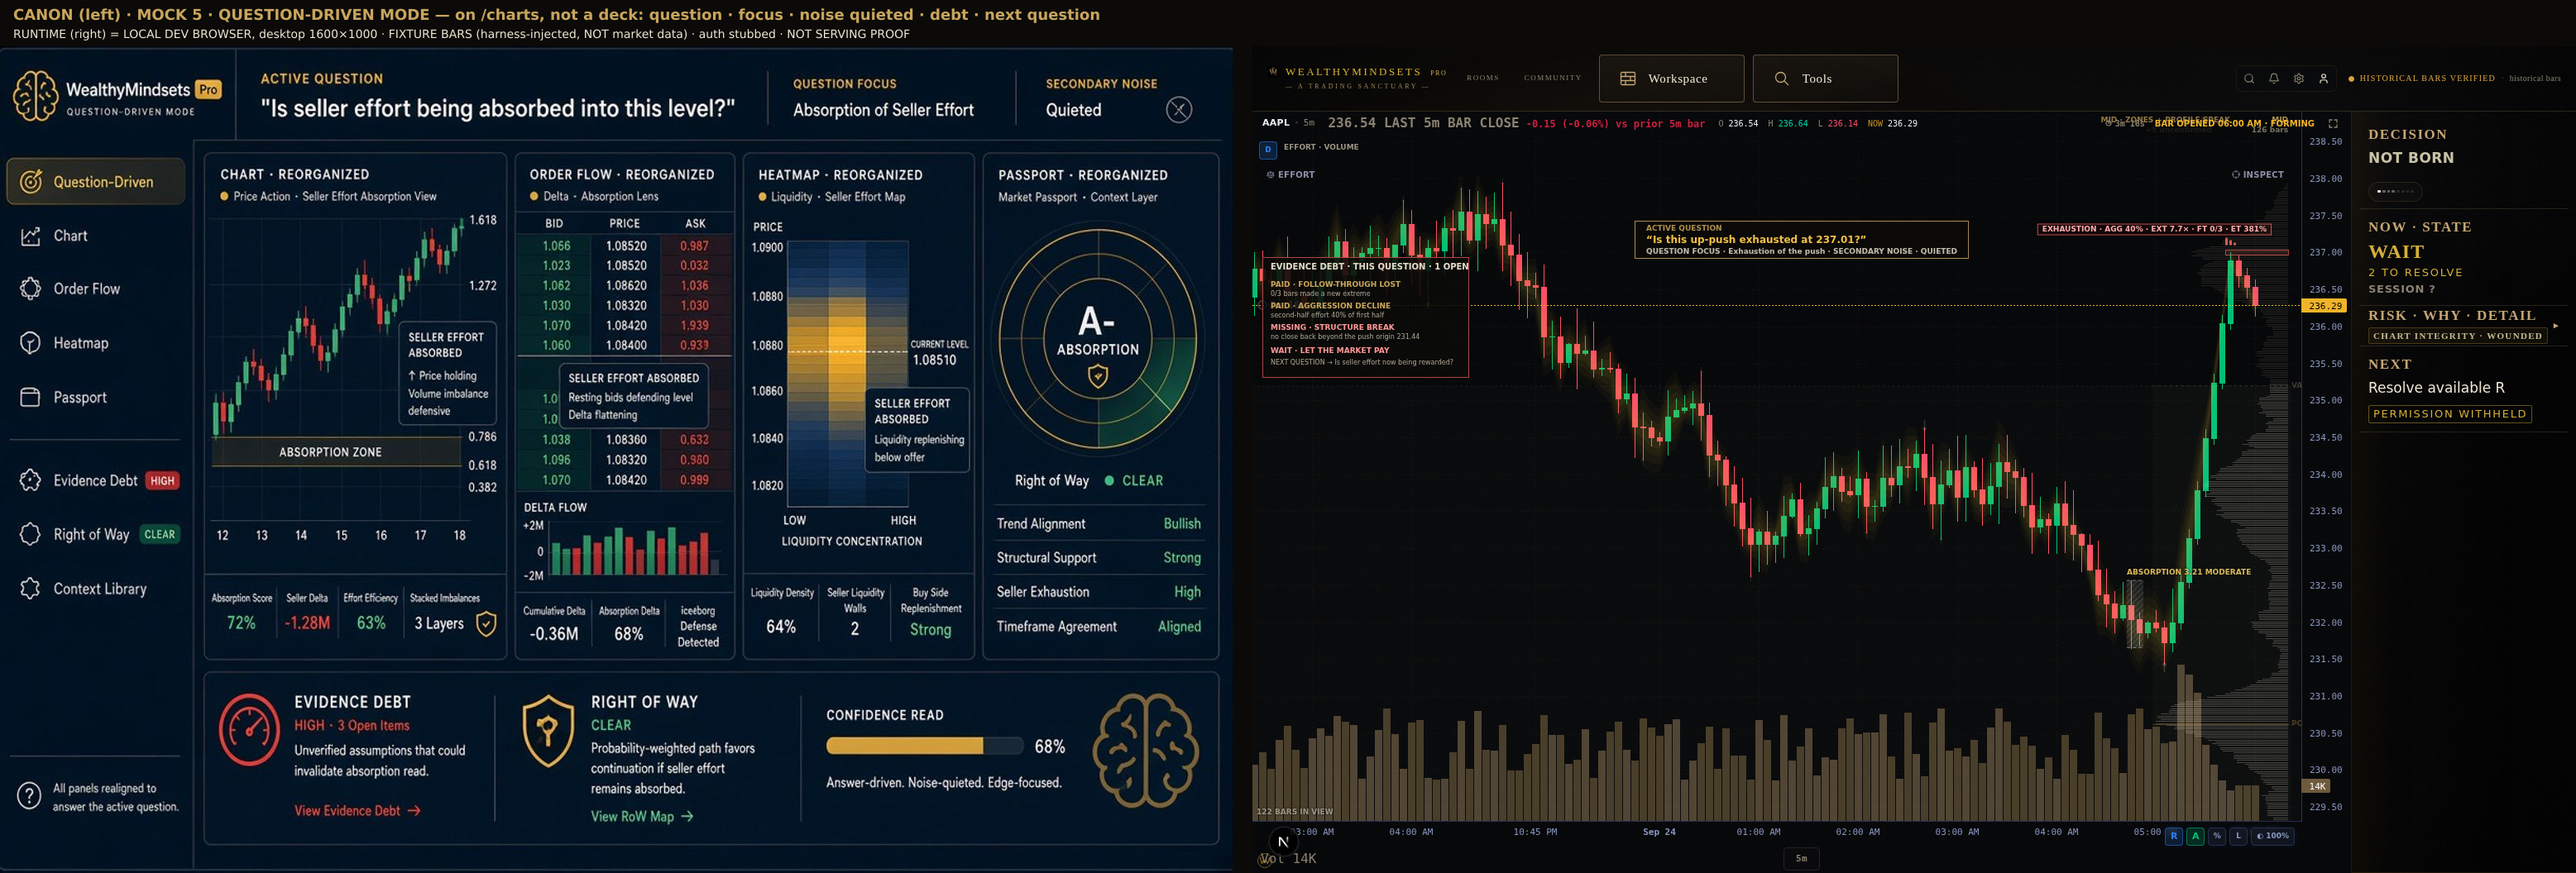
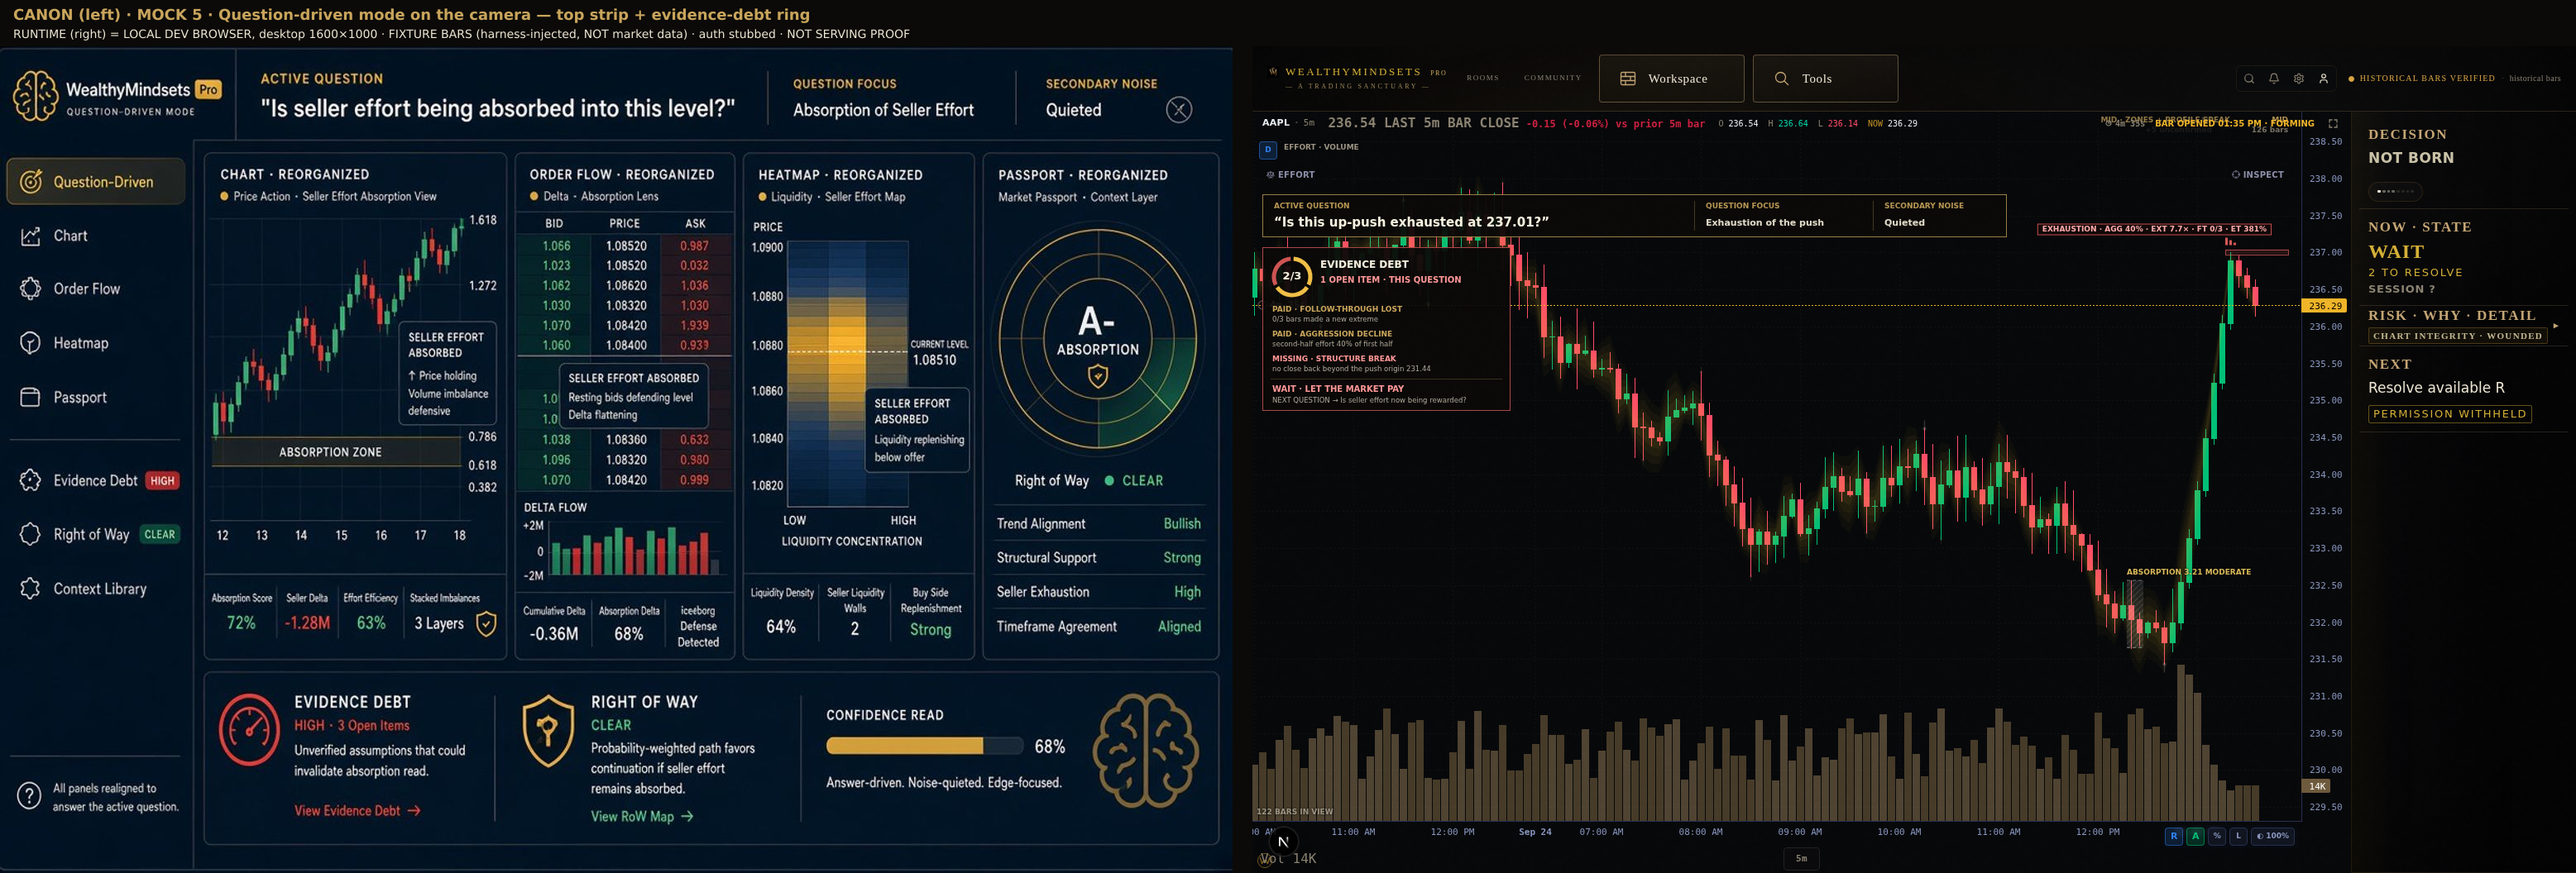
Question Lens in the plate's form: three-column question strip and an evidence-debt ring (MOCK 3 + 5)
The plate's Right of Way and Confidence Read stay unbuilt here: the
confidence bar has no measurement, and permission already has one owner in
the decision rail.

Claude-Session: https://claude.ai/code/session_01Gntm2WzCaW5uQMS2aMojoZ

diff --git a/src/components/chart/MainChart.tsx b/src/components/chart/MainChart.tsx
@@ -8049,59 +8049,89 @@ export function MainChart({ symbol, timeframe, setTimeframe, footprintType, foot
                     ctx.strokeRect(x0 + 0.5, Math.round(top) + 0.5, W - 76 - x0, Math.round(h));
                   }
                 }
-                // Banner: ACTIVE QUESTION · focus · noise quieted.
-                ctx.font = "700 12px ui-sans-serif, system-ui, sans-serif";
-                const q = `“${lens.question}”`;
-                const qW = ctx.measureText(q).width;
-                ctx.font = "700 9px ui-sans-serif, system-ui, sans-serif";
-                const sub = `QUESTION FOCUS · ${lens.focus} · SECONDARY NOISE · QUIETED`;
-                const sW = ctx.measureText(sub).width;
-                const bw = Math.max(qW, sW) + 28;
-                const bx = Math.round(W / 2 - bw / 2);
-                const by = 132;
-                ctx.fillStyle = "rgba(11,10,8,0.9)";
-                ctx.fillRect(bx, by, bw, 46);
-                ctx.strokeStyle = "rgba(201,165,92,0.85)";
-                ctx.strokeRect(bx + 0.5, by + 0.5, bw - 1, 45);
-                ctx.textAlign = "left"; ctx.textBaseline = "middle";
-                ctx.fillStyle = "rgba(201,165,92,0.85)";
-                ctx.fillText("ACTIVE QUESTION", bx + 14, by + 10);
-                ctx.font = "700 12px ui-sans-serif, system-ui, sans-serif";
-                ctx.fillStyle = "rgba(240,190,70,1)";
-                ctx.fillText(q, bx + 14, by + 24);
-                ctx.font = "700 9px ui-sans-serif, system-ui, sans-serif";
-                ctx.fillStyle = "rgba(237,230,211,0.8)";
-                ctx.fillText(sub, bx + 14, by + 38);
-                // Evidence debt column: what this question is still owed.
-                const lx = 12;
-                let ly = 188;
-                const colW = 250;
-                const rows = lens.debt.length;
-                ctx.fillStyle = "rgba(11,10,8,0.88)";
-                ctx.fillRect(lx, ly - 12, colW, 34 + rows * 26 + 34);
-                ctx.strokeStyle = lens.openDebt > 0 ? "rgba(226,92,92,0.75)" : "rgba(201,165,92,0.75)";
-                ctx.strokeRect(lx + 0.5, ly - 11.5, colW - 1, 33 + rows * 26 + 34);
-                ctx.font = "700 10px ui-sans-serif, system-ui, sans-serif";
-                ctx.fillStyle = "rgba(237,230,211,0.95)";
-                ctx.fillText(`EVIDENCE DEBT · THIS QUESTION · ${lens.openDebt} OPEN`, lx + 10, ly);
-                ly += 22;
-                for (const d of lens.debt) {
-                  ctx.font = "700 9px ui-sans-serif, system-ui, sans-serif";
-                  ctx.fillStyle = d.paid ? "rgba(201,165,92,1)" : "rgba(255,150,150,1)";
-                  ctx.fillText(`${d.paid ? "PAID" : "MISSING"} · ${d.label}`, lx + 10, ly);
-                  ctx.font = "500 8px ui-sans-serif, system-ui, sans-serif";
-                  ctx.fillStyle = "rgba(200,192,174,0.85)";
-                  const ev = d.evidence.length > 52 ? d.evidence.slice(0, 51) + "…" : d.evidence;
-                  ctx.fillText(ev, lx + 10, ly + 11);
-                  ly += 26;
+                // THE PLATE'S TOP STRIP — ACTIVE QUESTION | QUESTION FOCUS |
+                // SECONDARY NOISE · QUIETED, across the camera.
+                {
+                  const bx = 12, by = 100, bh = 52;
+                  const bw = Math.min(W - 100, 900);
+                  ctx.fillStyle = "rgba(11,10,8,0.94)";
+                  ctx.fillRect(bx, by, bw, bh);
+                  ctx.strokeStyle = "rgba(201,165,92,0.75)"; ctx.lineWidth = 1;
+                  ctx.strokeRect(bx + 0.5, by + 0.5, bw - 1, bh - 1);
+                  const c1 = Math.round(bw * 0.58), c2 = Math.round(bw * 0.24);
+                  ctx.strokeStyle = "rgba(201,165,92,0.3)";
+                  for (const cx of [bx + c1, bx + c1 + c2]) { ctx.beginPath(); ctx.moveTo(cx + 0.5, by + 8); ctx.lineTo(cx + 0.5, by + bh - 8); ctx.stroke(); }
+                  ctx.textAlign = "left"; ctx.textBaseline = "middle";
+                  const cell = (x: number, w: number, head: string, body: string, bodyPx: number, bodyColor: string) => {
+                    ctx.font = "700 9px ui-sans-serif, system-ui, sans-serif";
+                    ctx.fillStyle = "rgba(201,165,92,0.9)";
+                    ctx.fillText(head, x + 14, by + 15);
+                    ctx.font = `600 ${bodyPx}px ui-sans-serif, system-ui, sans-serif`;
+                    let t = body;
+                    while (t.length > 4 && ctx.measureText(t).width > w - 24) t = t.slice(0, -2);
+                    if (t !== body) t = t.slice(0, -1) + "…";
+                    ctx.fillStyle = bodyColor;
+                    ctx.fillText(t, x + 14, by + 35);
+                  };
+                  cell(bx, c1, "ACTIVE QUESTION", `“${lens.question}”`, 15, "rgba(247,241,223,1)");
+                  cell(bx + c1, c2, "QUESTION FOCUS", lens.focus ?? "", 11, "rgba(237,230,211,0.95)");
+                  cell(bx + c1 + c2, bw - c1 - c2, "SECONDARY NOISE", "Quieted", 11, "rgba(237,230,211,0.95)");
                 }
-                ctx.font = "700 9px ui-sans-serif, system-ui, sans-serif";
-                ctx.fillStyle = lens.openDebt > 0 ? "rgba(255,150,150,1)" : "rgba(201,165,92,1)";
-                ctx.fillText(lens.posture ?? "", lx + 10, ly + 2);
-                if (lens.nextQuestion) {
-                  ctx.fillStyle = "rgba(200,192,174,0.85)";
-                  ctx.font = "500 8px ui-sans-serif, system-ui, sans-serif";
-                  ctx.fillText(`NEXT QUESTION → ${lens.nextQuestion}`, lx + 10, ly + 16);
+                // EVIDENCE DEBT CARD — the plate's gauge: paid of owed, as a
+                // ring; then each item, PAID or MISSING, with its measured fact.
+                {
+                  const lx = 12, top = 164, colW = 300;
+                  const rows = lens.debt.length;
+                  const ch = 70 + rows * 30 + 38;
+                  ctx.fillStyle = "rgba(11,10,8,0.94)";
+                  ctx.fillRect(lx, top, colW, ch);
+                  ctx.strokeStyle = lens.openDebt > 0 ? "rgba(226,92,92,0.75)" : "rgba(201,165,92,0.75)";
+                  ctx.strokeRect(lx + 0.5, top + 0.5, colW - 1, ch - 1);
+                  // Ring: one arc per item — filled gold when paid, crimson outline when owed.
+                  const rcx = lx + 36, rcy = top + 36, rr = 22;
+                  const seg = (Math.PI * 2) / Math.max(1, rows);
+                  lens.debt.forEach((d, i) => {
+                    ctx.beginPath();
+                    ctx.arc(rcx, rcy, rr, -Math.PI / 2 + i * seg + 0.08, -Math.PI / 2 + (i + 1) * seg - 0.08);
+                    ctx.lineWidth = 5;
+                    ctx.strokeStyle = d.paid ? "rgba(240,190,70,1)" : "rgba(226,92,92,0.9)";
+                    ctx.stroke();
+                  });
+                  ctx.lineWidth = 1;
+                  ctx.textAlign = "center";
+                  ctx.font = "800 13px ui-sans-serif, system-ui, sans-serif";
+                  ctx.fillStyle = "rgba(247,241,223,1)";
+                  ctx.fillText(`${rows - lens.openDebt}/${rows}`, rcx, rcy);
+                  ctx.textAlign = "left";
+                  ctx.font = "800 12px ui-sans-serif, system-ui, sans-serif";
+                  ctx.fillStyle = "rgba(247,241,223,1)";
+                  ctx.fillText("EVIDENCE DEBT", lx + 70, top + 22);
+                  ctx.font = "700 10px ui-sans-serif, system-ui, sans-serif";
+                  ctx.fillStyle = lens.openDebt > 0 ? "rgba(255,150,150,1)" : "rgba(201,165,92,1)";
+                  ctx.fillText(lens.openDebt > 0 ? `${lens.openDebt} OPEN ITEM${lens.openDebt > 1 ? "S" : ""} · THIS QUESTION` : "PAID · THIS QUESTION", lx + 70, top + 40);
+                  let ly = top + 76;
+                  for (const d of lens.debt) {
+                    ctx.font = "700 9px ui-sans-serif, system-ui, sans-serif";
+                    ctx.fillStyle = d.paid ? "rgba(201,165,92,1)" : "rgba(255,150,150,1)";
+                    ctx.fillText(`${d.paid ? "PAID" : "MISSING"} · ${d.label}`, lx + 12, ly);
+                    ctx.font = "500 8.5px ui-sans-serif, system-ui, sans-serif";
+                    ctx.fillStyle = "rgba(200,192,174,0.85)";
+                    let ev = d.evidence;
+                    while (ev.length > 4 && ctx.measureText(ev).width > colW - 24) ev = ev.slice(0, -2);
+                    if (ev !== d.evidence) ev = ev.slice(0, -1) + "…";
+                    ctx.fillText(ev, lx + 12, ly + 12);
+                    ly += 30;
+                  }
+                  ctx.strokeStyle = "rgba(201,165,92,0.25)";
+                  ctx.beginPath(); ctx.moveTo(lx + 10, ly - 6.5); ctx.lineTo(lx + colW - 10, ly - 6.5); ctx.stroke();
+                  ctx.font = "800 10px ui-sans-serif, system-ui, sans-serif";
+                  ctx.fillStyle = lens.openDebt > 0 ? "rgba(255,150,150,1)" : "rgba(201,165,92,1)";
+                  ctx.fillText(lens.posture ?? "", lx + 12, ly + 6);
+                  if (lens.nextQuestion) {
+                    ctx.fillStyle = "rgba(200,192,174,0.85)";
+                    ctx.font = "500 8.5px ui-sans-serif, system-ui, sans-serif";
+                    ctx.fillText(`NEXT QUESTION → ${lens.nextQuestion}`, lx + 12, ly + 20);
+                  }
                 }
                 ctx.restore();
               }
@@ -8157,7 +8187,7 @@ export function MainChart({ symbol, timeframe, setTimeframe, footprintType, foot
                   ctx.fillText(t, W - 84 - tw - 4, +y);
                 }
 
-                const x0 = layerOnRef.current.questionLens === true && questionQuiet < 1 ? 272 : 12;
+                const x0 = layerOnRef.current.questionLens === true && questionQuiet < 1 ? 322 : 12;
                 const y0 = 176;
                 // The removal path: where this depth sits.
                 ctx.font = font(700, 9);
